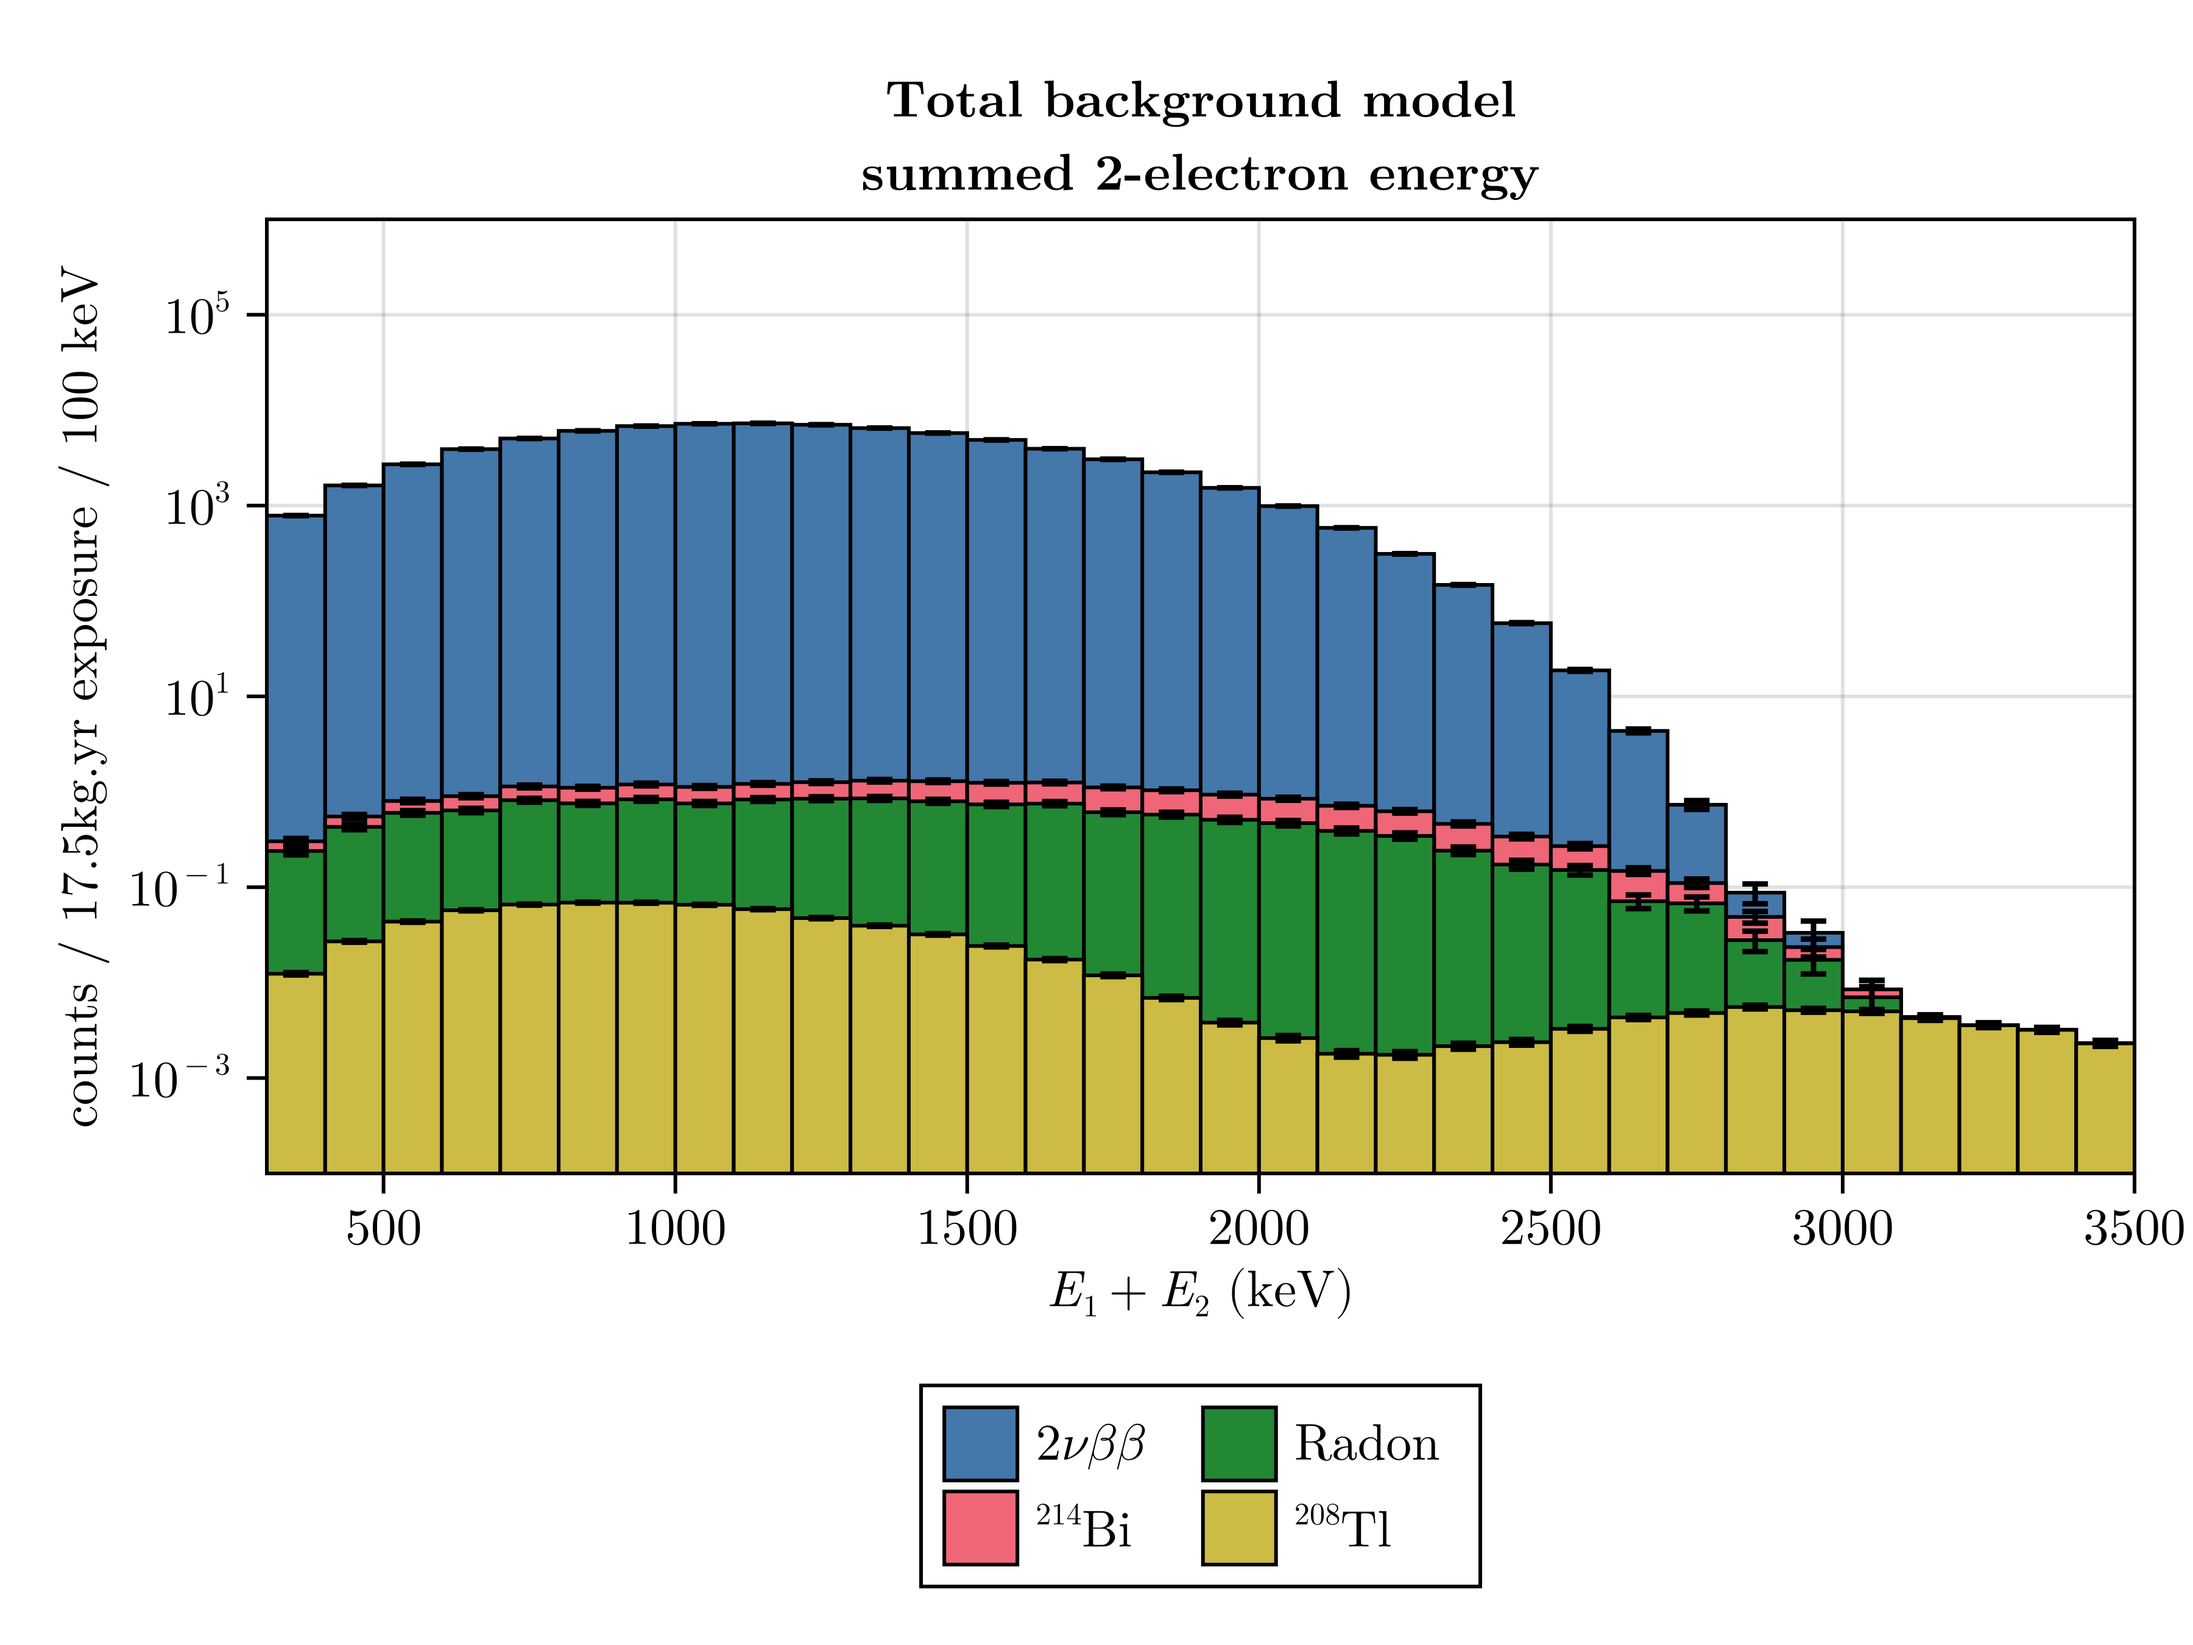
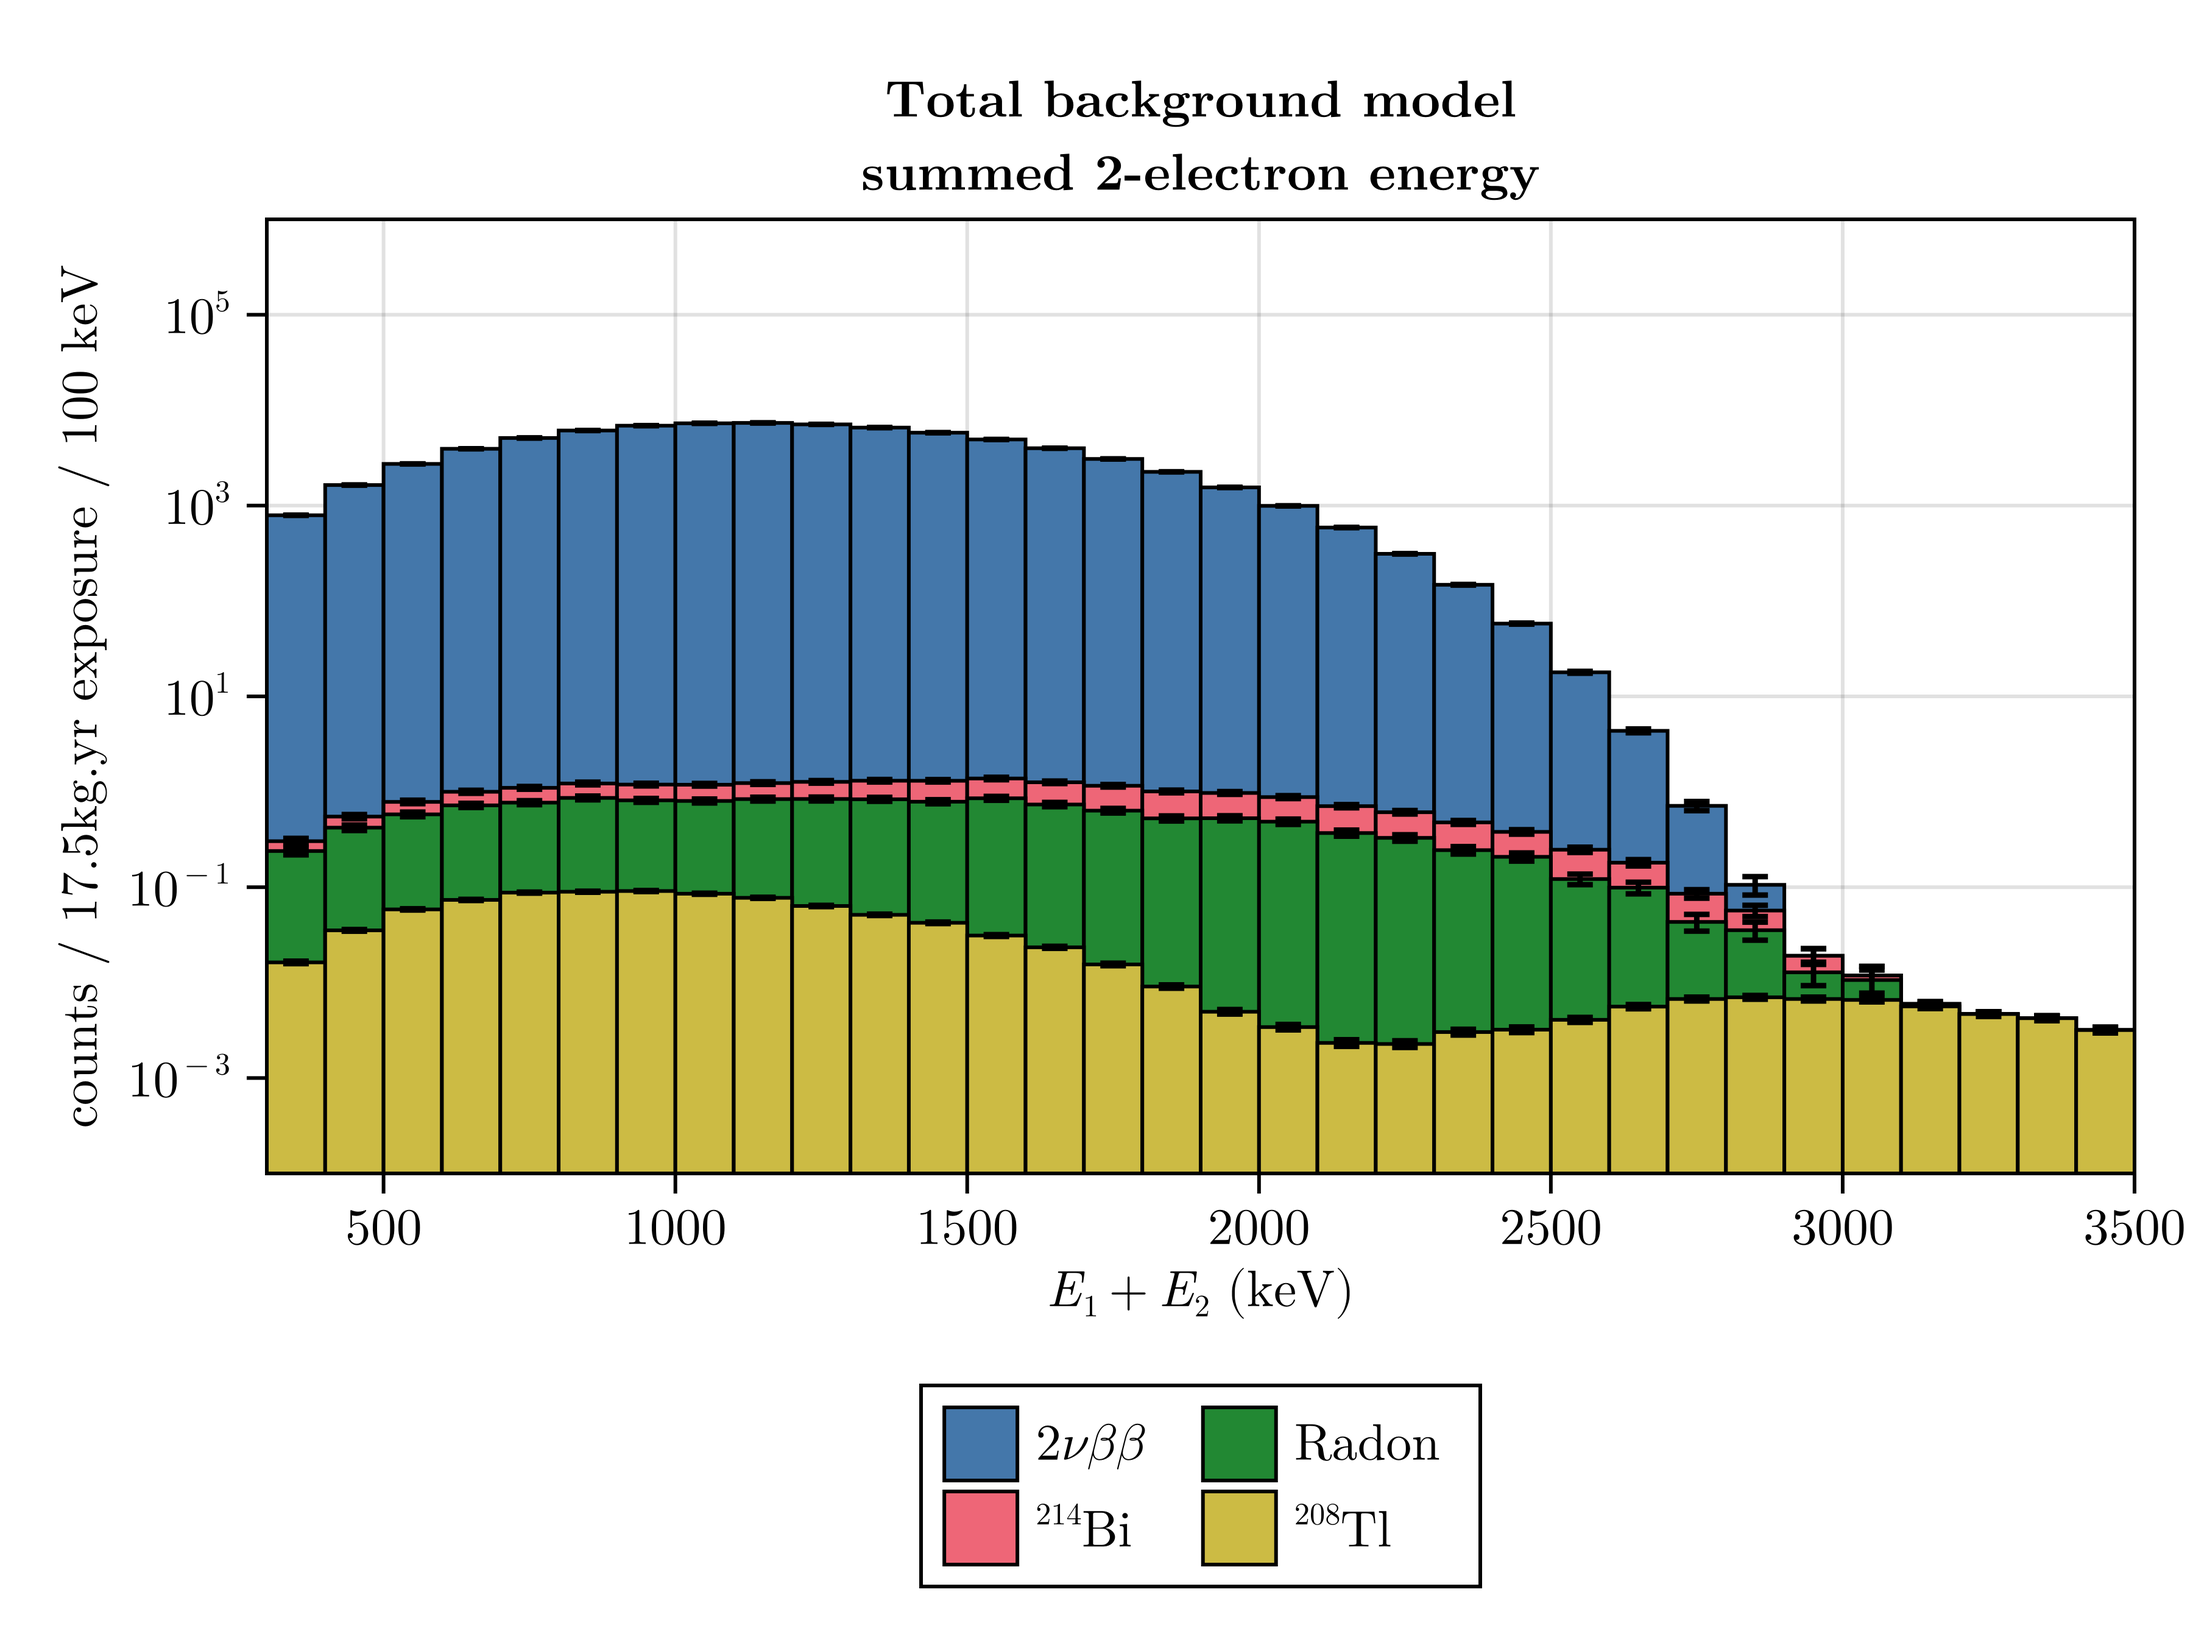
update tkrec

diff --git a/plots/LSM_report/sensitivityTables/sumE/sens_compare_TIT_vs_TKrec.md b/plots/LSM_report/sensitivityTables/sumE/sens_compare_TIT_vs_TKrec.md
@@ -2,7 +2,7 @@
 
 | **signal**        | **ROI**             | **bkg counts in ROI** | **efficiency** | **t12** |
 |------------------:|--------------------:|----------------------:|---------------:|--------:|
-| bb0nu\_foil\_bulk | 2700.0 - 3200.0 keV | 1.03±0.09             | 1.5            | 4.14e25 |
+| bb0nu\_foil\_bulk | 2700.0 - 3200.0 keV | 1.03±0.09             | 0.15           | 4.14e24 |
 
 
 
@@ -10,4 +10,5 @@
 
 | **signal**        | **ROI**             | **bkg counts in ROI** | **efficiency** | **t12** |
 |------------------:|--------------------:|----------------------:|---------------:|--------:|
-| bb0nu\_foil\_bulk | 2700.0 - 3100.0 keV | 0.86±0.08             | 1.35           | 3.88e25 |
+| bb0nu\_foil\_bulk | 2700.0 - 3200.0 keV | 0.76±0.08             | 0.14           | 4.07e24 |
+

diff --git a/plots/LSM_report/backgroundTables/sumE/background_counts_Bfield=Boff_Eres=8perc_mode=sumE_neutron_config=no_neutron_signal=bb0nu_foil_bulk_trackAlgo=TIT.md b/plots/LSM_report/backgroundTables/sumE/background_counts_Bfield=Boff_Eres=8perc_mode=sumE_neutron_config=no_neutron_signal=bb0nu_foil_bulk_trackAlgo=TIT.md
@@ -1,7 +1,7 @@
 | **process**       | **bkg counts in ROI** |
 |:------------------|:----------------------|
-| bb\_foil\_bulk    | 0.669±0.081           |
-| Bi214\_foil\_bulk | 0.0715±0.002          |
-| Bi214\_radon      | 0.099±0.014           |
-| Tl208\_foil\_bulk | 0.02048±0.00048       |
-| total             | 0.861±0.082           |
+| bb\_foil\_bulk    | 0.676±0.081           |
+| Bi214\_foil\_bulk | 0.0712±0.002          |
+| Bi214\_radon      | 0.075±0.012           |
+| Tl208\_foil\_bulk | 0.02707±0.00063       |
+| total             | 0.849±0.082           |

diff --git a/plots/LSM_report/sensitivityTables/sumE/sensitivity__Bfield=Boff_Eres=8perc_mode=sumE_neutron_config=no_neutron_signal=bb0nu_foil_bulk_trackAlgo=TKrec.md b/plots/LSM_report/sensitivityTables/sumE/sensitivity__Bfield=Boff_Eres=8perc_mode=sumE_neutron_config=no_neutron_signal=bb0nu_foil_bulk_trackAlgo=TKrec.md
@@ -1,3 +1,3 @@
 | **signal**        | **ROI**             | **bkg counts in ROI** | **efficiency** | **t12** |
 |------------------:|--------------------:|----------------------:|---------------:|--------:|
-| bb0nu\_foil\_bulk | 2700.0 - 3100.0 keV | 0.85±0.08             | 0.14           | 3.99e24 |
+| bb0nu\_foil\_bulk | 2700.0 - 3200.0 keV | 1.03±0.09             | 0.15           | 4.14e24 |
